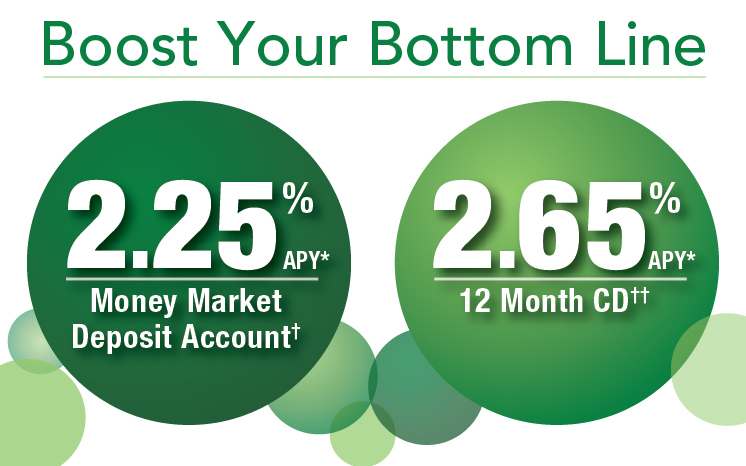
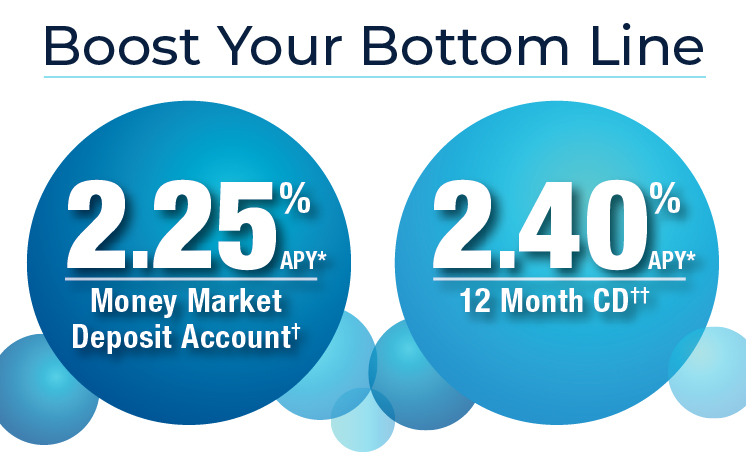
change to Money Market Promo

diff --git a/savings.html b/savings.html
@@ -138,7 +138,7 @@
               </div>
             </div><!-- row -->
             <div class="row spacer">
-              <p class="small para-margin"><sup>*</sup>Annual Percentage Yield (APY) <sup>†</sup>Money Market Deposit Account: Promotional rate of 2.25% APY for new accounts effective as of 11/12/18 and guaranteed for the first 365 days after account opening. Promotional rate offered on $10,000.00 or more of new money not currently on deposit within last 30 days with CIBM Bank. Minimum opening deposit of $100.00. The interest rate is subject to change at any time after initial 365 days. As of 10/10/18 Personal Money Market balances of $0.00-$9,999.99 (.08% APY); $10,000.00-$24,999.99 (.10% APY); $25,000.00-$49,999.99 (.13% APY); $50,000.00-$99,999.99 (.14% APY); $100,000.00 and above (.15% APY). Monthly fee $2.00 per debit if $1,000.00 minimum balance not maintained. As of 10/10/18 Business Money Market balances of $0.00-$9,999.99 (.08% APY); $10,000.00-$24,999.99 (.10% APY); $25,000.00-$49,999.99 (.13% APY); $50,000.00-$99,999.99 (.14% APY); $100,000.00 and above (.15% APY). Monthly fee $15.00 service charge if $5,000.00 minimum balance not maintained. Fees may reduce earnings. Accounts closed within 6 months of opening date subject to a $25.00 closing fee.  <sup>††</sup>12 Month Certificate of Deposit & IRA: Promotional rate of 2.65% (APY) effective as of 11/14/18 and guaranteed for the term of the account. Offer limited to $10,000.00 or more of new money not currently on deposit within last 30 days with CIBM Bank. Minimum opening deposit of $2,500.00 and a maximum of $250,000.00. Withdrawals made prior to maturity may be subject to an early withdrawal penalty. Offer not available in combination with any other offer.</p>
+              <p class="small para-margin"><sup>*</sup>Annual Percentage Yield (APY) <sup>†</sup>Money Market Deposit Account: Promotional rate of 2.25% APY for new accounts effective as of 11/12/18 and guaranteed for the first 365 days after account opening. Promotional rate offered on $10,000.00 or more of new money not currently on deposit within last 30 days with CIBM Bank. Minimum opening deposit of $100.00. The interest rate is subject to change at any time after initial 365 days. As of 10/10/18 Personal Money Market balances of $0.00-$9,999.99 (.08% APY); $10,000.00-$24,999.99 (.10% APY); $25,000.00-$49,999.99 (.13% APY); $50,000.00-$99,999.99 (.14% APY); $100,000.00 and above (.15% APY). Monthly fee $2.00 per debit if $1,000.00 minimum balance not maintained. As of 10/10/18 Business Money Market balances of $0.00-$9,999.99 (.08% APY); $10,000.00-$24,999.99 (.10% APY); $25,000.00-$49,999.99 (.13% APY); $50,000.00-$99,999.99 (.14% APY); $100,000.00 and above (.15% APY). Monthly fee $15.00 service charge if $5,000.00 minimum balance not maintained. Fees may reduce earnings. Accounts closed within 6 months of opening date subject to a $25.00 closing fee.  <sup>††</sup>12 Month Certificate of Deposit & IRA: Promotional rate of 2.40% (APY) effective as of 1/14/19 and guaranteed for the term of the account. Offer limited to $10,000.00 or more of new money not currently on deposit within last 30 days with CIBM Bank. Minimum opening deposit of $2,500.00 and a maximum of $250,000.00. Withdrawals made prior to maturity may be subject to an early withdrawal penalty. Offer not available in combination with any other offer.</p>
             </div><!-- row -->
             <div class="row spacer">
               <div class="col-md-6">
